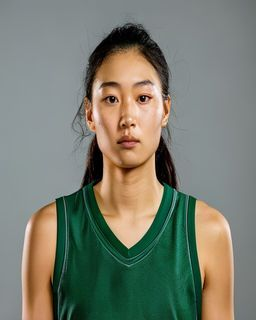
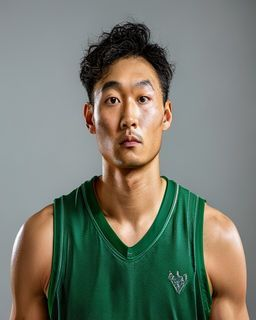
Yayına hazırlık: tüm portreler erkek, lig isim çakışması düzeltildi
- 12 kadın portre erkek olarak yeniden üretildi (PORTRAIT_ETH woman girdileri kaldırıldı)
- Lig grubu içinde benzersiz takım ismi garantisi + mevcut kayıt onarımı
- Tam tarayıcı testi: 10 sayfa, maç motoru, saha, anlatım kusursuz; konsol hatasız
- PROGRESS.md eklendi

Changed region(s): [[0.0312, 0.0625, 1.0, 1.0], [0.5625, 0.9375, 0.5938, 1.0], [0.3125, 0.7188, 0.3438, 0.75]]

diff --git a/charazay2.0.html b/charazay2.0.html
@@ -1843,7 +1843,7 @@ ${numSvg}
 /** assets/portraits/ içindeki gerçek dosya sayısıyla eşit tutulmalı (tools/generate-portraits.py). */
 const PORTRAIT_POOL_SIZE=120;
 const PORTRAIT_POOL_BASE='assets/portraits/p_';
-const PORTRAIT_ETH=['African American man','Turkish man','Japanese man','Irish man','Nigerian man','Colombian man','Russian man','Italian man','Brazilian man','German man','Spanish woman basketball player','Korean woman basketball player','French man','Greek man','Polish man','Mexican man','Canadian man','Australian man','Serbian man','Lithuanian man'];
+const PORTRAIT_ETH=['African American man','Turkish man','Japanese man','Irish man','Nigerian man','Colombian man','Russian man','Italian man','Brazilian man','German man','Spanish man','Korean man','French man','Greek man','Polish man','Mexican man','Canadian man','Australian man','Serbian man','Lithuanian man'];
 const PORTRAIT_JERSEY=['blue white basketball jersey','green basketball jersey','red white basketball jersey','purple yellow basketball jersey','black athletic shirt','grey hoodie','white t-shirt','orange basketball jersey'];
 function portraitPoolIndex(seed,salt){
   return Math.abs(hash32(String(seed)+'|'+String(salt??'')+'|photoPool'))%PORTRAIT_POOL_SIZE;
@@ -2099,9 +2099,22 @@ function genRandomClubName(){
   return `${ch(SEHIR)} ${ch(LIG_T)}`;
 }
 
+/** Grup içinde benzersiz kulüp adı üretir (aynı ligde iki özdeş isim olmasın). */
+function genUniqueClubName(taken){
+  for(let tries=0;tries<300;tries++){
+    const n=genRandomClubName();
+    if(!taken.has(n)){ taken.add(n); return n; }
+  }
+  const base=genRandomClubName();
+  let n=base, k=2;
+  while(taken.has(n)){ n=base+' '+k; k++; }
+  taken.add(n); return n;
+}
+
 function makeSubTemplate(){
+  const taken=new Set();
   const teams=[];
-  for(let i=0;i<LEAGUE_SIZE;i++) teams.push(genRandomClubName());
+  for(let i=0;i<LEAGUE_SIZE;i++) teams.push(genUniqueClubName(taken));
   return {teams};
 }
 
@@ -2143,13 +2156,21 @@ function ensureTblState(){
     if(!sub||!sub.teams) continue;
     if(!Array.isArray(sub.teams)||sub.teams.length!==LEAGUE_SIZE){
       const old=sub.teams||[];
+      const taken=new Set();
       const teams=[];
-      for(let i=0;i<LEAGUE_SIZE;i++) teams[i]=old[i]||genRandomClubName();
+      for(let i=0;i<LEAGUE_SIZE;i++){
+        const cur=old[i];
+        if(cur&&!taken.has(cur)){ taken.add(cur); teams[i]=cur; }
+        else teams[i]=genUniqueClubName(taken);
+      }
       sub.teams=teams;
       changed=true;
     } else {
+      const taken=new Set();
       for(let i=0;i<LEAGUE_SIZE;i++){
-        if(!sub.teams[i]){ sub.teams[i]=genRandomClubName(); changed=true; }
+        const cur=sub.teams[i];
+        if(!cur||taken.has(cur)){ sub.teams[i]=genUniqueClubName(taken); changed=true; }
+        else taken.add(cur);
       }
     }
   }

diff --git a/tools/generate-portraits.py b/tools/generate-portraits.py
@@ -23,8 +23,8 @@ ETH = [
     "Italian man",
     "Brazilian man",
     "German man",
-    "Spanish woman basketball player",
-    "Korean woman basketball player",
+    "Spanish man",
+    "Korean man",
     "French man",
     "Greek man",
     "Polish man",

diff --git a/PROGRESS.md b/PROGRESS.md
@@ -1,0 +1,37 @@
+# PROGRESS — Charazay 2.0 (Basket Menajerlik)
+
+Tek dosyalık basketbol menajerlik oyunu (`charazay2.0.html`). Steam yayınına hazırlık.
+
+## 2026-07-05 — Yayına hazırlık taraması ve düzeltmeler
+
+### Yapılanlar
+- **Kadın portreleri kaldırıldı (erkek oyuncu şartı):** Portre havuzundaki (`assets/portraits/`, 120 dosya)
+  12 kadın portre (indeks 10,11,30,31,50,51,70,71,90,91,110,111) erkek olarak yeniden üretildi.
+  Kaynak: `PORTRAIT_ETH` dizisindeki iki "woman" girdisi ("Spanish/Korean woman basketball player")
+  hem `charazay2.0.html` (satır ~1846) hem `tools/generate-portraits.py` içinde "Spanish man"/"Korean man"
+  ile değiştirildi. 120/120 portre görsel olarak tarandı — hepsi erkek, Charazay tarzı stüdyo headshot.
+- **Lig takım ismi çakışması düzeltildi:** İsimler `${şehir} ${sonek}` (10×12=120 kombinasyon) rastgele
+  seçiliyordu; grup başına 20 takımda çakışma (ör. iki "Adana Panterleri") oluyordu. `makeSubTemplate` artık
+  grup içinde benzersiz isim üretiyor (`genUniqueClubName`), ve `ensureTblState` mevcut kayıtlardaki çakışan
+  isimleri de onarıyor. Tüm 26 lig grubu benzersiz doğrulandı.
+
+### Test ve doğrulama (tarayıcıda, yerel sunucu ile)
+- JS syntax temiz (node --check), tüm 10 sayfa (dashboard, takım, kadro, maç, lig, market, altyapı, antrenman,
+  arena, bilanço) hatasız render oluyor. Konsol hatası yok.
+- Tüm inline onclick handler'ları ve aksiyon fonksiyonları tanımlı; modallar (ayarlar, başarımlar, öğretici,
+  oyuncu, taktik) açılıp kapanıyor.
+- **Maç motoru kusursuz:** canlı Türkçe anlatım (renk kodlu: sayı yeşil, kaçan kırmızı), skorboard, çeyrek
+  dökümü, şut haritası filtresi, ahşap zeminli tam basketbol sahası (iki pota, boyalı alanlar, 3 sayı yayları),
+  canlı takım istatistikleri. Tam maç sonu akışı (puan tablosu, ekonomi/bilet geliri, CPU maç simülasyonu,
+  sakatlık) hatasız tamamlanıyor.
+- Yerleşik mentor öz-denetimi (`charazayCollectMentorIssues`) tüm sayfalarda 0 hata; yalnızca 2 bilgilendirici
+  uyarı (sidebar lig ağacı kaydırılabilir — normal davranış).
+
+### Kararlar / gözlemler
+- Portreler pollinations.ai ile deterministik seed'lerle üretiliyor (internet gerektirir). Yeniden üretim için
+  ilgili dosyaları silip `py tools/generate-portraits.py 120` çalıştırmak yeterli (mevcut >8KB dosyaları atlar).
+- **Açık öneri (kullanıcı kararı bekliyor):** Maç skorları demo temposu nedeniyle düşük (ör. 31-28; 5 dk çeyrek).
+  Gerçekçi basketbol skorları (~80-100) istenirse maç motoru temposu ayarlanabilir; şu an anlatım akışı hızlı
+  tutmak için bilinçli tercih.
+- Steam paketleme: Oyun tek HTML dosyası. Steam masaüstü dağıtımı için Electron/Tauri sarmalayıcı gerekir
+  (ayrı bir adım; henüz yapılmadı).
